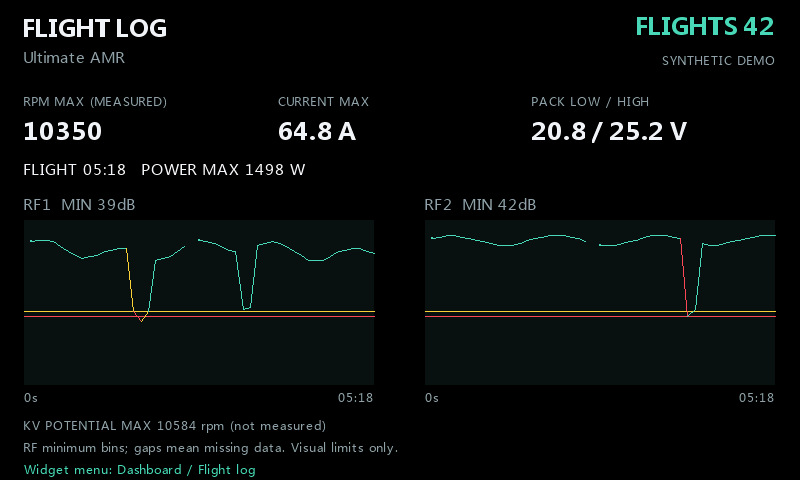
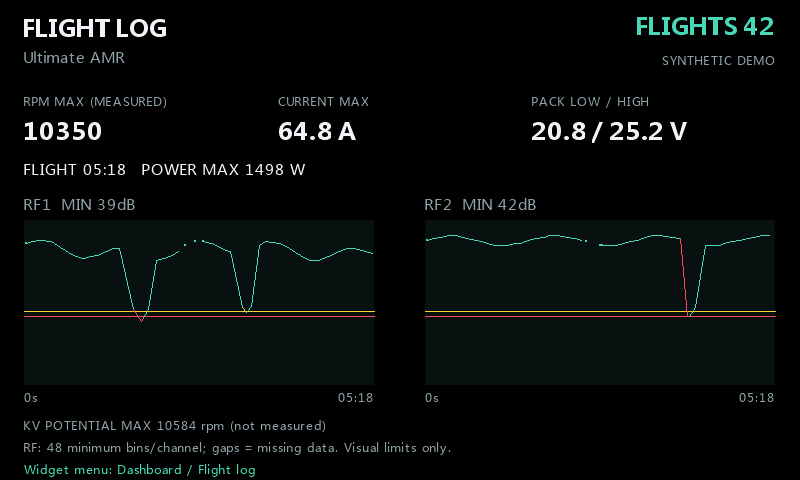
Refresh RF screenshots with 180-point synthetic input

diff --git a/docs/images/README.md b/docs/images/README.md
@@ -2,6 +2,8 @@
 
 These PNGs are native ETHOS 26.1.2 simulator renders with synthetic values.
 They illustrate the widget's presentation, not recorded flights or audio tests.
+The updated RF screenshots feed 180 synthetic history points through the
+bounded 48-bin renderer. Other dashboard screenshots remain unchanged.
 The example counter of 42 is fabricated and is not saved as a real counter.
 
 See [the illustrated guide](../Configuration.md) and
